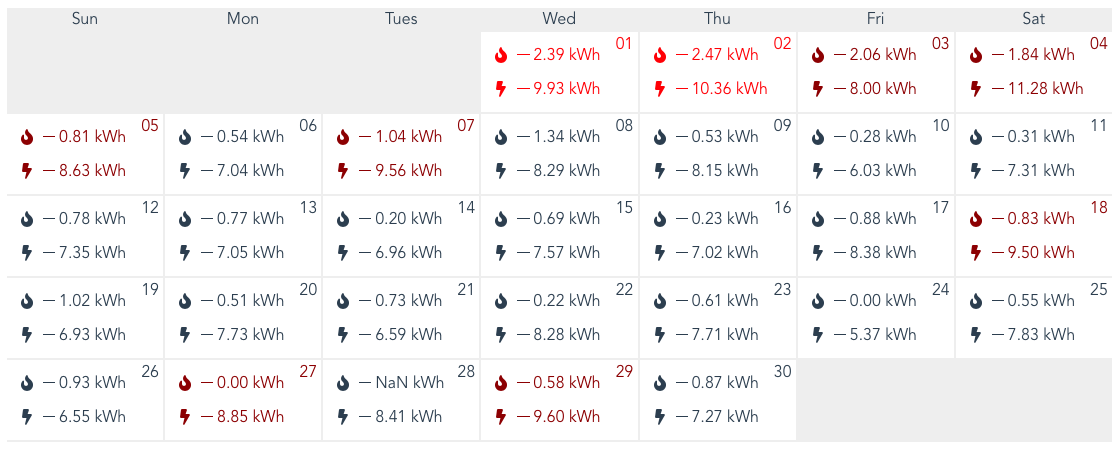
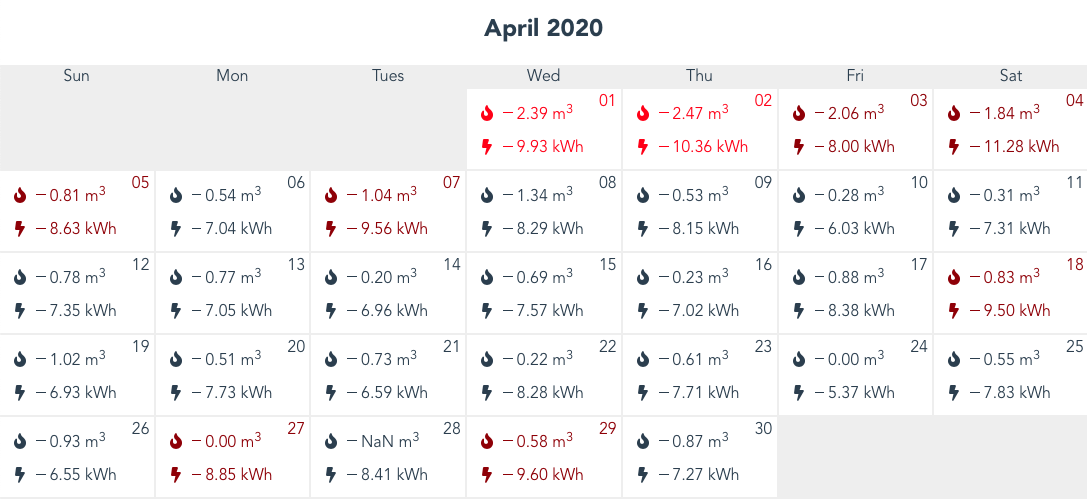
meters cube, not kWh

diff --git a/src/App.vue b/src/App.vue
@@ -6,7 +6,8 @@
       <h2>[<a href="https://github.com/mxdvl/octopus/">github repo</a>]</h2>
     </header>
 
-    <div id="inputs" v-if="!dataLoaded">
+    <button @click="toggleInputs">{{ showInputs ? 'Hide' : 'Show' }} inputs</button>
+    <div id="inputs" v-if="showInputs">
       <!-- skLive <input v-model="skLive" type="text" style="width: 250px"><br> -->
 
       <Input v-model="skLive" name="API Key" icon="key" style="grid-column: span 3"/>
@@ -27,7 +28,7 @@
     <Calendar v-if="consumption.length" :today="today" :consumption="consumption" />
     
     <h3 v-if="error">{{ error }}</h3>
-    <button v-if="dataLoaded" @click="clearOut">Change Inputs</button>
+    <button v-if="dataLoaded" @click="clearOut">Clear Data</button>
   </div>
 </template>
 
@@ -60,6 +61,7 @@ export default {
       day: today.getDate(),
 
       dataLoaded: false,
+      showInputs: true,
       errors: null,
 
       skLive: null,
@@ -97,6 +99,9 @@ export default {
       this.consumption = []
       this.error = null
       this.dataLoaded = false
+    },
+    toggleInputs() {
+      this.showInputs = !this.showInputs
     },
     tickleTheOctopus(type = null) {
       if(type === null) return null;
@@ -238,12 +243,17 @@ header {
   gap: 0.25em;
   margin: auto;
 
-  max-width: 36em;
+  width: 36em;
+  max-width: 100%;
 }
-
-
 
 a {
   color: orange;
+}
+
+@media screen and (max-width: 36rem) {
+  #inputs {
+    grid-template-columns: 1fr;
+  }
 }
 </style>

diff --git a/src/components/Calendar.vue b/src/components/Calendar.vue
@@ -20,7 +20,7 @@
         :key="day.index"><div class="number">{{ day.date.substring(8,10) }}</div>
         <FontAwesomeIcon icon="fire" />
         <div class="spacer"></div>
-        <div class="gas"><span>{{ parseFloat(day.gas).toFixed(2) }}</span> kWh</div>
+        <div class="gas"><span>{{ parseFloat(day.gas).toFixed(2) }}</span> m<sup>3</sup></div>
 
         <FontAwesomeIcon icon="bolt" />
         <div class="spacer"></div>
